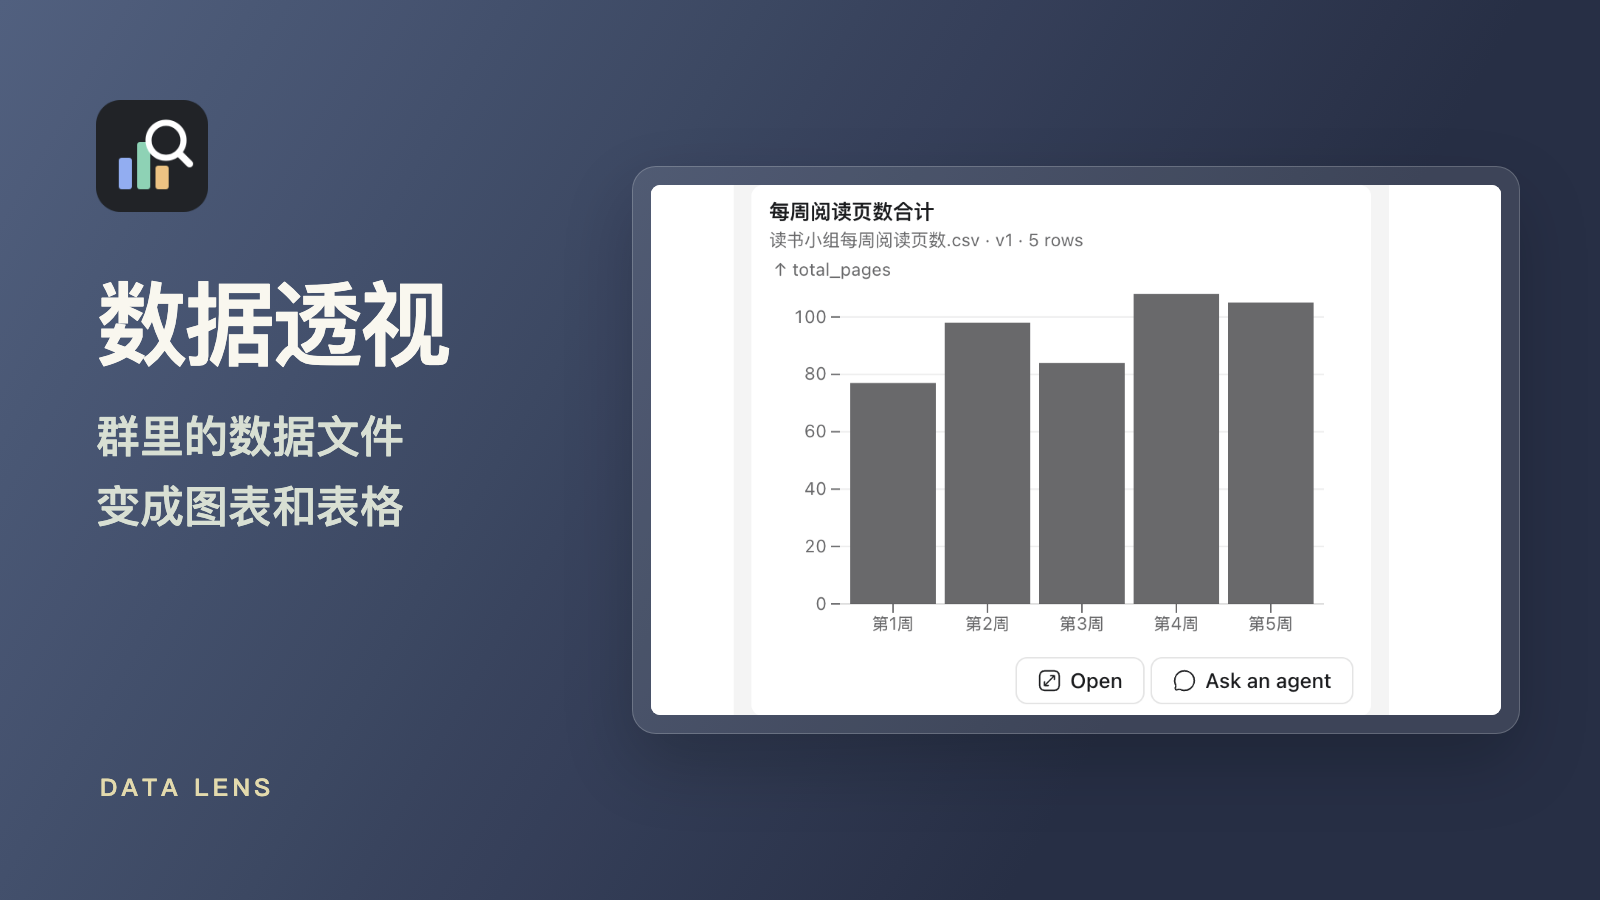
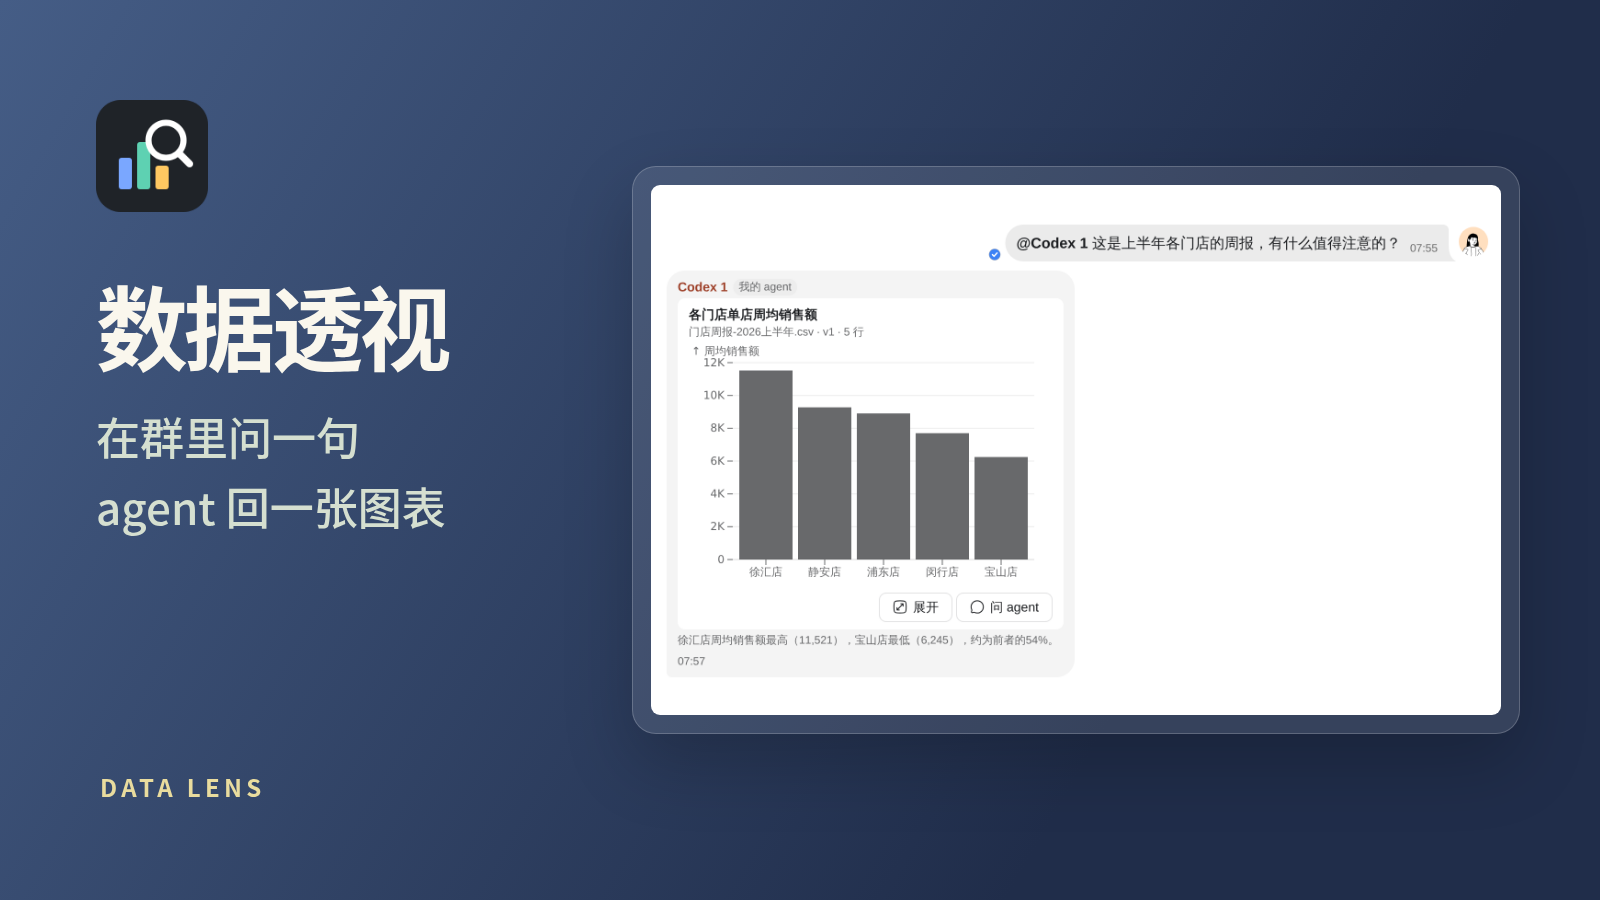
Data Lens market images from a real group chat
The cover and gallery now show where Data Lens is used: a person asks an agent
about a CSV in a group, the agent answers with chart cards, and the card opens
the whole file in Data Lens. The earlier card-only crops are removed.

diff --git a/scripts/promo/data-lens.html b/scripts/promo/data-lens.html
@@ -45,14 +45,14 @@
     .screen { height: 530px; overflow: hidden; border-radius: 9px; background: white; display: grid; place-items: center; }
     .screen img { display: block; width: auto; max-width: 100%; height: auto; max-height: 100%; }
   </style>
-  <main class="promo" aria-label="数据透视：把群里的数据文件变成图表和表格">
+  <main class="promo" aria-label="数据透视：在群里问一句，agent 回一张图表">
     <div class="brand">
       <img class="icon" src="../../sources/data-lens/app/icon.png" alt="" />
       <h1>数据透视</h1>
-      <p class="message">群里的数据文件<br />变成图表和表格</p>
+      <p class="message">在群里问一句<br />agent 回一张图表</p>
     </div>
     <figure class="product" aria-label="数据透视真实界面截图">
-      <div class="screen"><img src="../../sources/data-lens/app/store/screenshots/1-native.png" alt="数据透视已发布的真实产品画面" /></div>
+      <div class="screen"><img src="data-lens-chat.png" alt="群聊里 agent 用数据透视回答一份周报的问题" /></div>
     </figure>
     <p class="name-en">DATA LENS</p>
   </main>

diff --git a/sources/data-lens/app/store/SOURCE.md b/sources/data-lens/app/store/SOURCE.md
@@ -1,19 +1,16 @@
 # Screenshot source
 
-Each image is a Data Lens card as an agent posted it in a group chat, captured in the Gugu desktop client (light theme) on November 2, 2026, and cropped to the card (420 × 360). The client was not redrawn.
+Every image is from the Gugu desktop client (light theme, Chinese UI) on November 5, 2026: Data Lens 0.1.4 installed
+from this source, the host built from Gugu `dev` at `73a5d62b`, captured natively at device scale 2 on Linux. Nothing was redrawn.
 
-- `1-bar.png`, `2-heatmap.png`: cards over a sample sales workbook (`.xlsx`).
-- `3-series.png`, `5-table.png`: a three-series line card and a 12-column, 640-row table card over a sample `.sqlite` database.
-- `4-line.png`: a card over a sample store-traffic `.csv`.
+The scene is a real conversation in a two-member group, 「门店经营周会」: a person posts a CSV of weekly figures for five
+stores and asks an agent, "这是上半年各门店的周报，有什么值得注意的？". The agent (Codex, model Gugu GPT-6 Luna) read the
+Data Lens skill, called `data_profile`, `data_query` and `data_card`, and answered with three cards and a summary.
 
-The data files are synthetic, generated for testing; no real customers or sales appear in them.
+- `1-chat.png` — the question and the first card in the group (window crop, scaled to 60 %).
+- `2-open.png` — the card opened with 展开: Data Lens beside the chat, showing the whole 120-row file (scaled to 50 %).
+- `3-findings.png` — the outlier card and the agent's findings (scaled to 75 %).
+- `0-promo.png` — the market cover, `scripts/promo/data-lens.html` around an exact crop of the same conversation.
 
-## Native cover refresh, November 4, 2026
-
-`0-promo.png` and `1-native.png` show a new single-series card, “每周阅读页数合计”, posted by an agent through the product. It uses an example reading-group CSV with five rows, one for each week. The grey bars are the App's normal single-series colour; the chart and its accompanying description agree. No real customer data is shown.
-
-Data Lens 0.1.2 was installed through the normal market UI from `GUYI-AI/gugu-apps@6d3b8e472826742bd6496146e19b7ac96581d81b`. The Gugu desktop host was built from `GUYI-AI/gugu@9b07c9a232f78d963193dd2cfe1ce4d3326b734a`, on macOS 26.5.1. It captured a real device-scale-2 rendering: a 1600 × 1000 logical window produced a 3200 × 2000 native PNG. The host and the App webview both reported device pixel ratio 2.
-
-`1-native.png` is the exact native crop of `dl-card-2x.png` at (618, 736, 1152, 720), in device pixels. It retains the title, five bars and the Open / Ask an agent buttons, while omitting surrounding chat text and the capture label. It was not upscaled, redrawn or populated by editing a screenshot. The original five gallery images described above are retained.
-
-The cover uses the existing shared promotional layout at 1600 × 900 and device scale 1, with `scripts/promo/data-lens.html`. The native product crop is downsampled into the frame; the icon, brand colours and wording follow the approved template. Electron 44.0.0 / Chromium 152.0.7977.54 rendered it with the existing PingFang SC font fallback. The native screenshot, crop and promotional composition are recorded separately. This artwork-only release changes no charting or data-loading code.
+The CSV is synthetic, generated for this capture; no real stores, customers or sales appear in it. The person's name in
+the chat is a test account's display name.

diff --git a/scripts/promo/README.md b/scripts/promo/README.md
@@ -15,7 +15,7 @@ All product images below already existed in the corresponding App before this ar
[8 lines of base64/hex data omitted]
@@ -28,3 +28,11 @@ All product images below already existed in the corresponding App before this ar
 ## Teamboard and Data Lens native-image refresh
 
 The Teamboard 1.4.1 and Data Lens 0.1.3 artwork uses actual desktop captures of the preceding App versions, installed through the normal market UI. The final board and chart use native device-scale-2 pixels; the cover canvas stays at scale 1. Electron 44.0.0 / Chromium 152.0.7977.54 on macOS 26.5.1 rendered the covers with PingFang SC, the existing font fallback. See each App's `store/SOURCE.md` for the crop sizes and the retained earlier gallery images. The layouts, icons, colours and wording remain fixed; the new Data Lens template reuses the shared frame and constrains the product image to its native size or smaller.
+
+## Data Lens in a group chat (0.1.4)
+
+The Data Lens cover now shows the App where it is used: a person asks an agent about a CSV in a group, and the agent answers
+with a chart card. `data-lens-chat.png` is an exact crop of a native desktop capture (device scale 2) of that conversation;
+it sits beside the template because it is cover material, not a gallery image. Its aspect ratio is wider than the frame, so
+it is letterboxed on the white screen rather than clipped. The cover was rendered with Chromium 147 on Linux, with Noto Sans
+CJK SC (the template's first font) supplied through a private fontconfig. See `sources/data-lens/app/store/SOURCE.md`.
